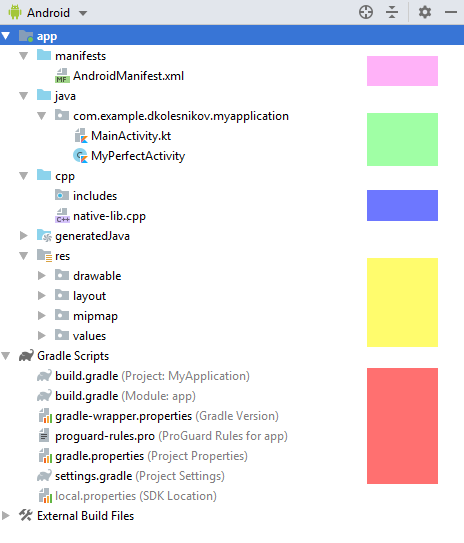
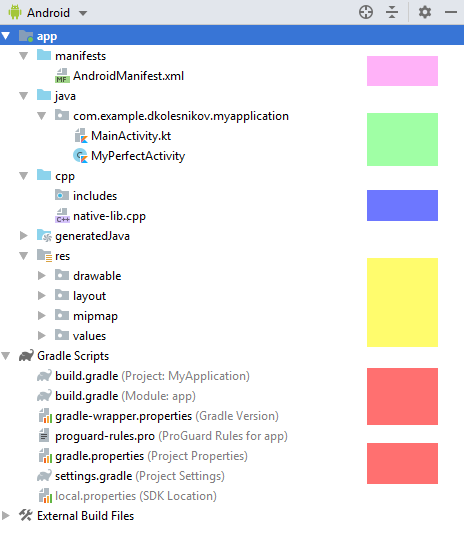
Basics-2019: Remove old files; Little changes

Changed region(s): [[0.7845, 0.7661, 0.9655, 0.825]]

diff --git a/lecture 01 - Android - Basics.html b/lecture 01 - Android - Basics.html
@@ -54,10 +54,7 @@
         <section id="logging" data-markdown="lecture/basics/slide/10.1__logging.md"
                  data-separator-vertical="^\r?\n------\r?\n$"></section>
 
-        <section id="links" data-markdown="lecture/basics/slide/08.1__links.md"
-                 data-separator-vertical="^\r?\n------\r?\n$"></section>
-
-        <section id="codelab" data-markdown="lecture/basics/slide/09.1__codelab.md"
+        <section id="links" data-markdown="lecture/basics/slide/11.1__links.md"
                  data-separator-vertical="^\r?\n------\r?\n$"></section>
 
     </div>

diff --git a/lecture/basics/slide/02.1__sdk.md b/lecture/basics/slide/02.1__sdk.md
@@ -10,8 +10,8 @@
 # Android SDK
 
 Представляет собой набор инструментов для разработки, сборки, тестирования и отладки приложений под Android:
-- **Kotlin**/Java [классы](https://developer.android.com/reference/classes) для взаимодействия с ОС и железом телефона
-- [AndroidX / Support libraries](https://developer.android.com/topic/libraries/support-library/packages.html)
+- Kotlin/Java [классы](https://developer.android.com/reference/classes) для взаимодействия с ОС и железом телефона
+- [AndroidX / Support libraries](https://developer.android.com/jetpack/androidx)
 - Android Debug Bridge [(adb)](https://developer.android.com/studio/command-line/adb)
 - [Android emulator](https://developer.android.com/studio/run/emulator)
 - ..и многое [другое](https://developer.android.com/studio/command-line/)

diff --git a/lecture/basics/slide/03.1__project.md b/lecture/basics/slide/03.1__project.md
@@ -41,5 +41,7 @@
     <p><font color="#DFDC4D">Ресурсы приложения</font></p>
     <p><font color="#A4A7FF">C/C++ код (опционально)</font></p>
     <p><font color="#FFD5C2">Результаты сборки (классы, АРК файлы)</font></p>
+    
+    Красной меткой слева отмечены файлы и папки, которые должны быть добавлены в `.gitignore`
     <!-- .element: width="50%" -->
 </div>

diff --git a/lecture/basics/slide/01.2__contents.md b/lecture/basics/slide/01.2__contents.md
@@ -14,6 +14,5 @@
     <li><a href="#broadcast">BroadcastReceiver</a></li>
     <li><a href="#logging">Логирование в Android</a></li>
     <li><a href="#links">Полезные ссылки</a></li>
-    <li><a href="#codelab">Codelab</a></li>
 
 </ul>
